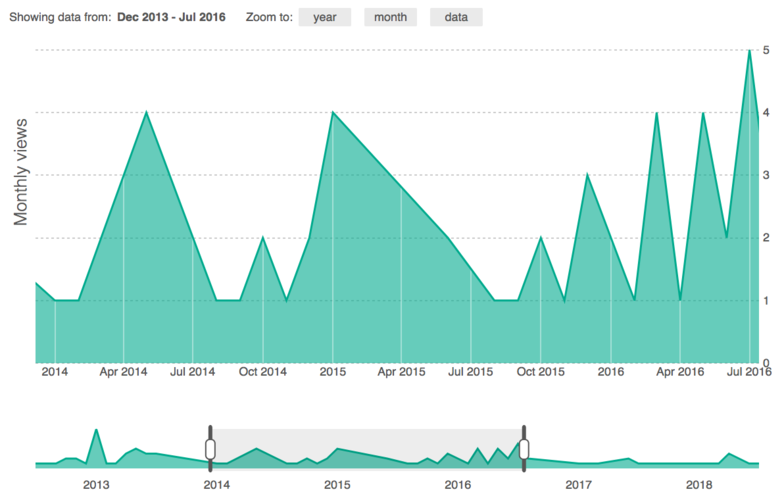
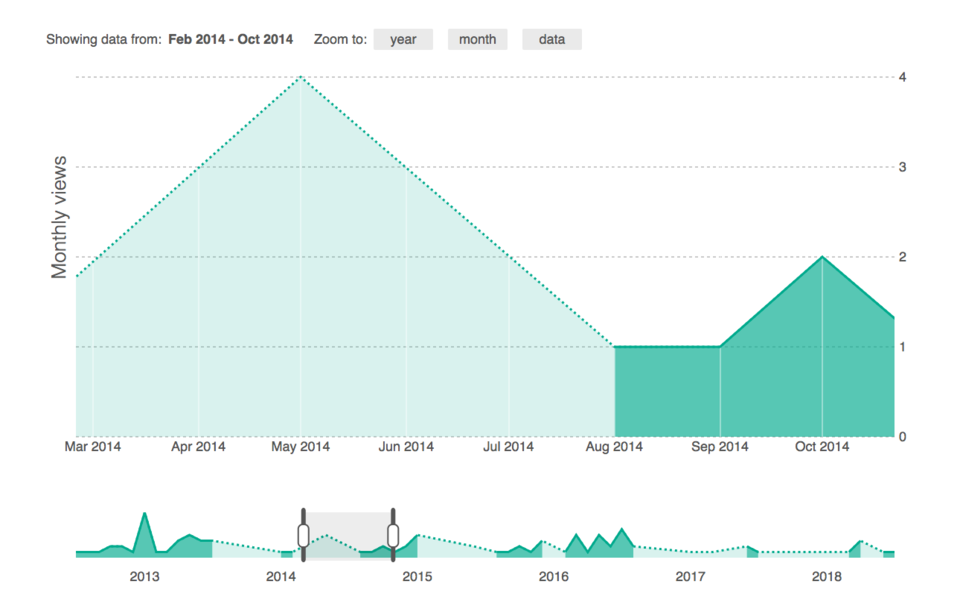
added paths for missing data, changed cursors, updated readme.

diff --git a/index.html b/index.html
@@ -36,6 +36,7 @@
 	fill: white;
 }
 
+/* complete data line */
 #metric-modal .metric-chart path.line {
 	fill: none;
 	stroke: #00AA8D; /* default, changed in each theme */
@@ -43,10 +44,36 @@
 	clip-path: url(#clip);
 }
 
+/* complete data area */
 #metric-modal .metric-chart path.area {
 	fill: #00AA8D; /* CB default, changed in each theme */
 	opacity: 0.6;
 	clip-path: url(#clip);
+	cursor: move; /* fallback if grab cursor is unsupported */
+	cursor: grab;
+}
+
+/*missing data line */
+#metric-modal .metric-chart path.line_missing {
+	fill: none;
+	stroke: #00AA8D; /* default, changed in each theme */
+	stroke-width: 1.5px;
+	stroke-dasharray: 1.5px 2px;
+	clip-path: url(#clip);
+}
+/*missing data area */
+#metric-modal .metric-chart path.area_missing {
+	fill: #00AA8D; /* CB default, changed in each theme */
+	opacity: 0.15;
+	clip-path: url(#clip);
+	cursor: move; /* fallback if grab cursor is unsupported */
+	cursor: grab;
+}
+
+#metric-modal .metric-chart path.area_missing:active,
+#metric-modal .metric-chart path.area:active {
+	cursor: move; /* fallback if grab cursor is unsupported */
+	cursor: grabbing;
 }
 
 #metric-modal .metric-chart .axis {
@@ -88,10 +115,17 @@
 }
 
 #metric-modal .metric-chart rect.pane {
-	cursor: move;
-	fill: none;
+	cursor: move; /* fallback if grab cursor is unsupported */
+	cursor: grab;
+	fill: white;
 	pointer-events: all;
 }
+
+#metric-modal .metric-chart rect.pane:active, {
+	cursor: move; /* fallback if grab cursor is unsupported */
+	cursor: grabbing;
+}
+
 /* brush handles  */
 #metric-modal .metric-chart .resize .handle {
 	fill: #555;
@@ -168,6 +202,9 @@ for(var i=0; i<monthArray.length; i++){
 	}
 	dataset.push({count: count, month: monthArray[i]});
 }
+
+// a dataset without the null values is also needed to draw the missing data lines/areas
+var dataset_no_null = dataset.filter(function(d) { return d.count !== null; });
 
 /*
 * ========================================================================
@@ -262,14 +299,24 @@ var line = d3.svg.line()
 
 var area = d3.svg.area()
 	.defined(line.defined())
-  .x(function(d) { return x(d.month); })
-  .y0((height))
-  .y1(function(d) { return y(d.count); });
+	.x(function(d) { return x(d.month); })
+	.y0((height))
+	.y1(function(d) { return y(d.count); });
+
+var line_missing = d3.svg.line()
+	.x(function(d) { return x(d.month); })
+	.y(function(d) { return y(d.count); });
+
+var area_missing = d3.svg.area()
+	.x(function(d) { return x(d.month); })
+	.y0((height))
+	.y1(function(d) { return y(d.count); });
+
 
 /* === Context Chart === */
 
 var line_context = d3.svg.line()
-	.defined(function(d) { return d.count !== null; }) 
+	.defined(function(d) { return d.count !== null; })
     .x(function(d) { return x2(d.month); })
     .y(function(d) { return y2(d.count); });
 
@@ -279,7 +326,14 @@ var area_context = d3.svg.area()
     .y0((height_context))
     .y1(function(d) { return y2(d.count); });
 
+var line_context_missing = d3.svg.line()
+	.x(function(d) { return x2(d.month); })
+	.y(function(d) { return y2(d.count); });
 
+var area_context_missing = d3.svg.area()
+	.x(function(d) { return x2(d.month); })
+	.y0((height_context))
+	.y1(function(d) { return y2(d.count); });
 
 /*
 * ========================================================================
@@ -307,7 +361,7 @@ var zoom = d3.behavior.zoom()
 var vis = d3.select("#metric-modal").append("svg")
     .attr("width", width + margin.left + margin.right)
     .attr("height", height + margin.top + margin.bottom)
-  	.attr("class", "metric-chart"); // CB -- "line-chart" -- CB //
+  	.attr("class", "metric-chart");// CB -- "line-chart" -- CB //
 
 vis.append("defs").append("clipPath")
     .attr("id", "clip")
@@ -315,6 +369,12 @@ vis.append("defs").append("clipPath")
     .attr("width", width)
     .attr("height", height);
     // clipPath is used to keep line and area from moving outside of plot area when user zooms/scrolls/brushes
+
+var rect = vis.append("svg:rect")
+    .attr("class", "pane")
+    .attr("width", width)
+    .attr("height", height)
+    .attr("transform", "translate(" + margin.left + "," + margin.top + ")");
 
 var context = vis.append("g")
     .attr("class", "context")
@@ -324,13 +384,8 @@ var focus = vis.append("g")
     .attr("class", "focus")
     .attr("transform", "translate(" + margin.left + "," + margin.top + ")");
 
-var rect = vis.append("svg:rect")
-    .attr("class", "pane")
-    .attr("width", width)
-    .attr("height", height)
-    .attr("transform", "translate(" + margin.left + "," + margin.top + ")")
-    .call(zoom)
-    .call(draw);
+rect.call(zoom)
+	.call(draw);
 
 // === current date range text & zoom buttons === //
 
@@ -395,27 +450,57 @@ focus.append("g")
     .call(yAxis)
    	.attr("transform", "translate(" + (width) + ", 0)");
 
+// missing data area
+focus.append("path")
+    .datum(dataset_no_null)
+    .attr("class", "area_missing")
+    .attr("d", area_missing)
+	.call(zoom)
+	.call(draw);
+
+// complete data area
 focus.append("path")
     .datum(dataset)
     .attr("class", "area")
-    .attr("d", area);
+    .attr("d", area)
+	.call(zoom)
+	.call(draw);
 
+// x-axis
 focus.append("g")
     .attr("class", "x axis")
     .attr("transform", "translate(0," + height + ")")
     .call(xAxis);
 
+// missing data line
+focus.append("path")
+    .datum(dataset_no_null)
+    .attr("class", "line_missing")
+    .attr("d", line_missing);
+
+// complete data line
 focus.append("path")
     .datum(dataset)
     .attr("class", "line")
     .attr("d", line);
 
+
 /* === context chart === */
+
+context.append("path")
+    .datum(dataset_no_null)
+    .attr("class", "area_missing")
+    .attr("d", area_context_missing);
 
 context.append("path")
     .datum(dataset)
     .attr("class", "area")
     .attr("d", area_context);
+
+context.append("path")
+    .datum(dataset_no_null)
+    .attr("class", "line_missing")
+    .attr("d", line_context_missing);
 
 context.append("path")
     .datum(dataset)
@@ -514,30 +599,32 @@ function customTickFunction(t0, t1, dt)  {
 // === brush and zoom functions ===
 
 function brushed() {
-
     x.domain(brush.empty() ? x2.domain() : brush.extent());
-    focus.select(".area").attr("d", area);
-    focus.select(".line").attr("d", line);
-    focus.select(".x.axis").call(xAxis);
+	common_behaviour();
     // Reset zoom scale's domain
     zoom.x(x);
     updateDisplayDates();
     setYdomain();
 
-};
+}
 
 function draw() {
     setYdomain();
-    focus.select(".area").attr("d", area);
-    focus.select(".line").attr("d", line);
-    focus.select(".x.axis").call(xAxis);
-    //focus.select(".y.axis").call(yAxis);
+    common_behaviour();
     // Force changing brush range
     brush.extent(x.domain());
     vis.select(".brush").call(brush);
     // and update the text showing range of dates.
     updateDisplayDates();
-};
+}
+
+function common_behaviour() {
+	focus.select(".area").attr("d", area);
+    focus.select(".line").attr("d", line);
+	focus.select(".area_missing").attr("d", area_missing);
+    focus.select(".line_missing").attr("d", line_missing);
+	focus.select(".x.axis").call(xAxis);
+}
 
 function brushend() {
 // when brush stops moving:
@@ -596,28 +683,28 @@ function setYdomain(){
     var bisectDate = d3.bisector(function(d) { return d.month; }).right;
 
     // get the y value of the line at the left edge of view port:
-    var iL = bisectDate(dataset, xleft);
+    var iL = bisectDate(dataset_no_null, xleft);
 
-    if (dataset[iL] !== undefined && dataset[iL-1] !== undefined) {
+    if (dataset_no_null[iL] !== undefined && dataset_no_null[iL-1] !== undefined) {
 
-        var left_dateBefore = dataset[iL-1].month,
-            left_dateAfter = dataset[iL].month;
+        var left_dateBefore = dataset_no_null[iL-1].month,
+            left_dateAfter = dataset_no_null[iL].month;
 
-        var intfun = d3.interpolateNumber(dataset[iL-1].count, dataset[iL].count);
+        var intfun = d3.interpolateNumber(dataset_no_null[iL-1].count, dataset_no_null[iL].count);
         var yleft = intfun((xleft-left_dateBefore)/(left_dateAfter-left_dateBefore));
     } else {
         var yleft = 0;
     }
 
     // get the x value of the line at the right edge of view port:
-    var iR = bisectDate(dataset, xright);
+    var iR = bisectDate(dataset_no_null, xright);
 
-    if (dataset[iR] !== undefined && dataset[iR-1] !== undefined) {
+    if (dataset_no_null[iR] !== undefined && dataset_no_null[iR-1] !== undefined) {
 
-        var right_dateBefore = dataset[iR-1].month,
-            right_dateAfter = dataset[iR].month;
+        var right_dateBefore = dataset_no_null[iR-1].month,
+            right_dateAfter = dataset_no_null[iR].month;
 
-        var intfun = d3.interpolateNumber(dataset[iR-1].count, dataset[iR].count);
+        var intfun = d3.interpolateNumber(dataset_no_null[iR-1].count, dataset_no_null[iR].count);
         var yright = intfun((xright-right_dateBefore)/(right_dateAfter-right_dateBefore));
     } else {
         var yright = 0;

diff --git a/README.md b/README.md
@@ -2,6 +2,15 @@
 ### Option A
 
 - a potential `D3` chart to use on metacat UI
+
+**PROS:**
+- missing data clearly differentiated.
+
+**CONS:**
+- data points with missing data the month before and after are 'hidden' (e.g. May 2014).
+
+
+
 - features:
     - gaps in data shown with dotted line
     - mini 'brush' chart shows the context of the data in focus in the main chart
